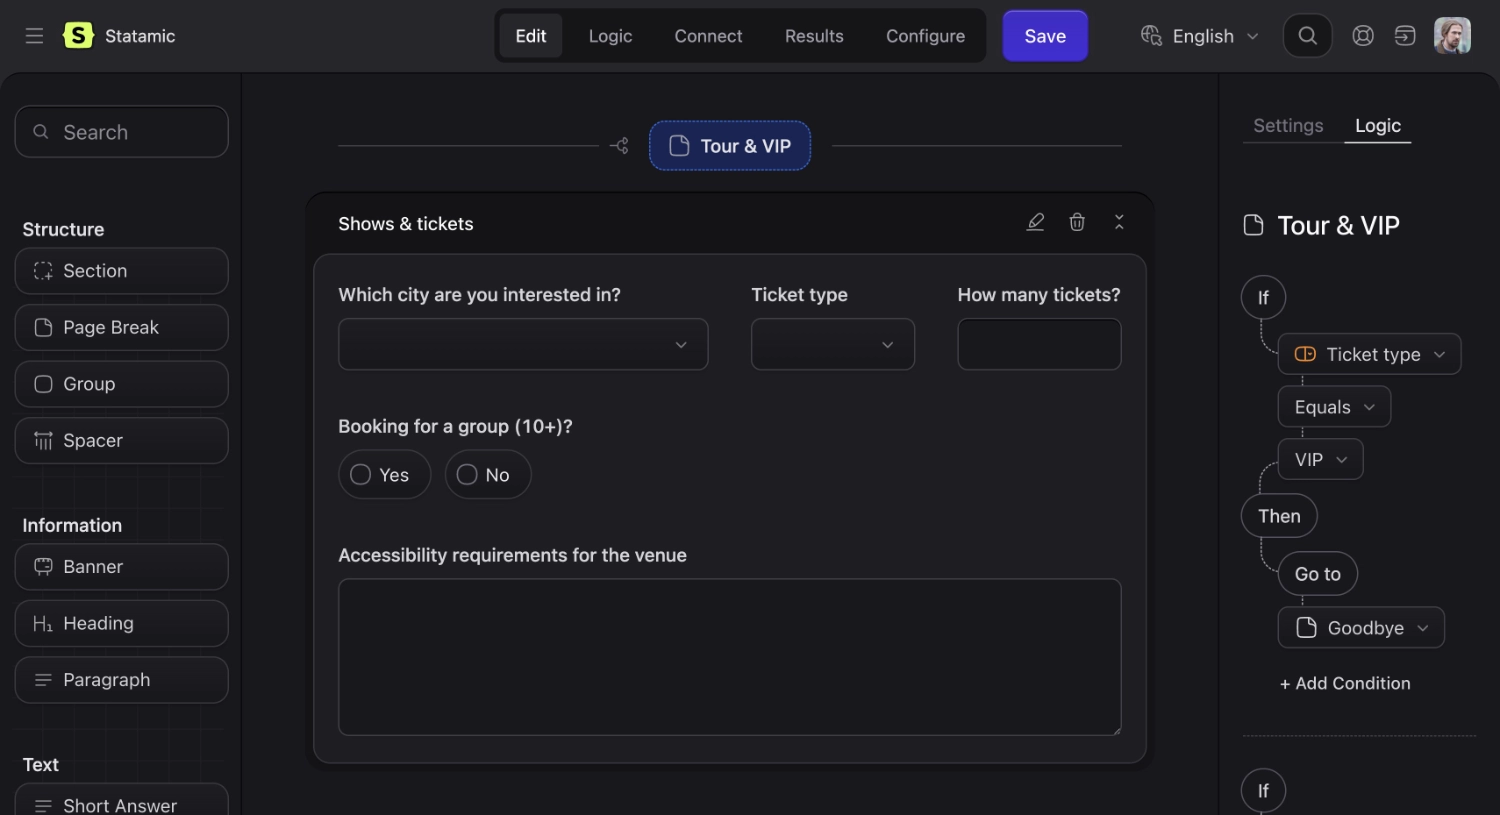
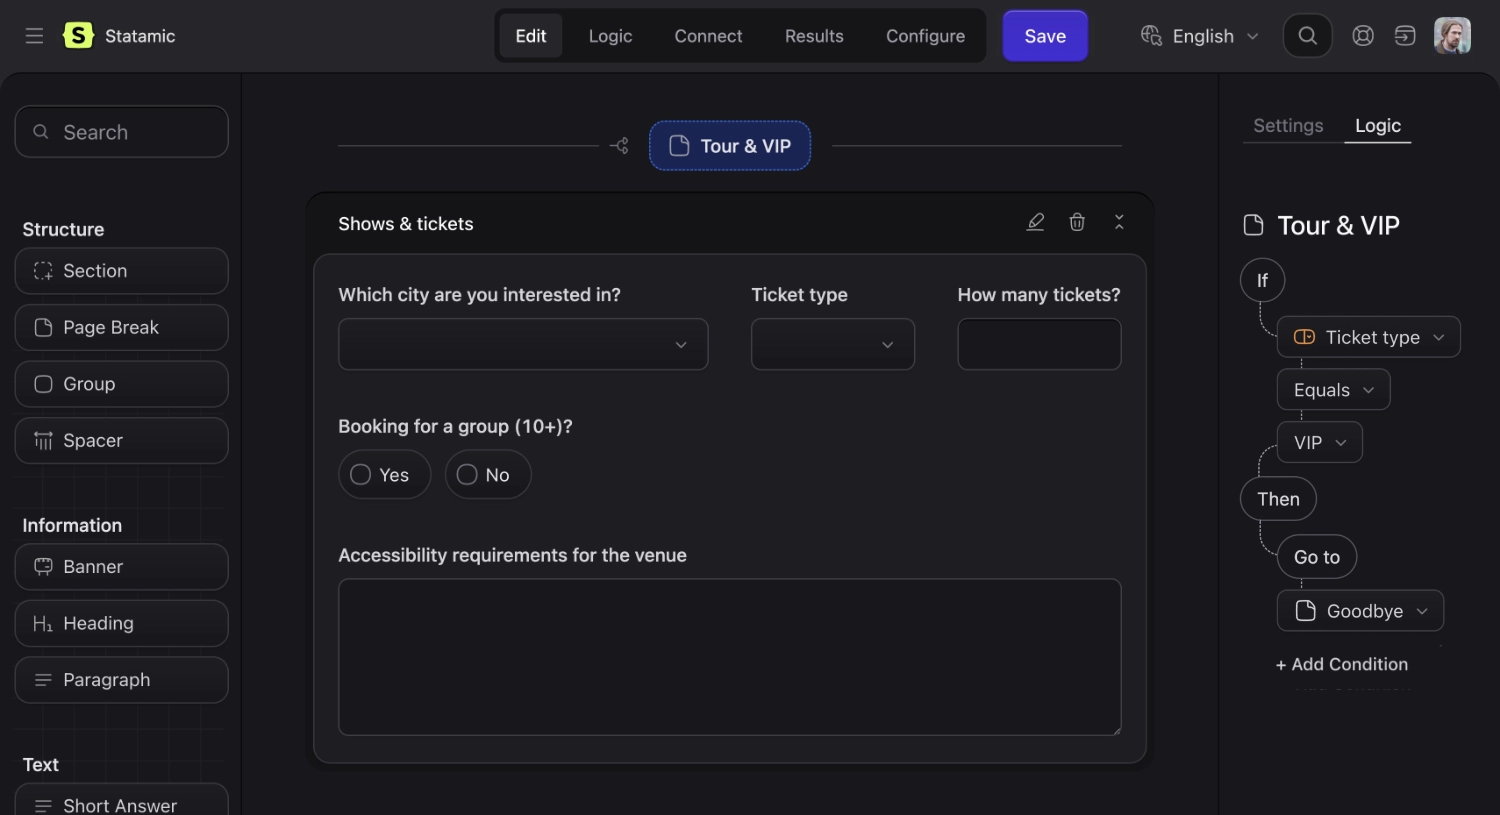
Forms wip

Changed region(s): [[0.828, 0.3374, 0.9813, 0.8589], [0.828, 0.9509, 0.8587, 1.0]]

diff --git a/resources/css/components/imagery/bordered-image.css b/resources/css/components/imagery/bordered-image.css
@@ -72,7 +72,7 @@
             margin-block-end: 0;
             margin-inline: auto;
             /* e.g. >> /getting-started/installing/laravel-forge-1-click */
-            border-radius: var(--border-radius-sm);
+            border-radius: var(--border-radius-md);
             border: 1px solid var(--color-black);
             /* Screenshots can look a little washed out, let's boost them a smidgen */
             filter: var(--filter-image-boost-content);

diff --git a/resources/css/components/entry-content.css b/resources/css/components/entry-content.css
@@ -293,6 +293,13 @@
     }
 }
 
+@layer scope {
+    .c-entry-content ol li figure {
+        /* e.g. >> /frontend/forms, where we have figures inside a list */
+        margin-block: 0 var(--spacing-lg);
+    }
+}
+
 @layer plugins {
     .c-entry-content {
         /* When lists have a pre compress things a little so it's more readable e.g. >> /addons/vite-tooling */

diff --git a/content/collections/pages/forms.md b/content/collections/pages/forms.md
@@ -715,8 +715,9 @@ When the [honeypot](#honeypot) catches spam — or an event listener returns `fa
 Need more from your forms? [Forms Pro](https://statamic.com/addons/statamic/forms-pro) is a paid addon that builds on Statamic's built-in forms with features like:
 
 - [Multi-page forms](#multi-page-forms)
-  - Control page logic
-  - Edit rules in a tree view
+  - [Controlling page logic](#controlling-page-logic)
+  - Use a dedicated tree view to understand complex page logic
+  - [Customizing page buttons](#customizing-page-buttons)
 - [Dedicated form pages](#dedicated-form-pages)
 - Unique form instances per entry
 - Additional fieldtypes & connections
@@ -741,7 +742,7 @@ This is especially useful for longer forms. Breaking them into pages makes them 
 <figure>
   <img src="/img/forms-pro/page-logic.webp" alt="Page logic for Forms Pro in the control panel" class="u-hide-in-dark-mode">
   <img src="/img/forms-pro/page-logic-dark.webp" alt="Page logic for Forms Pro in the control panel" class="u-hide-in-light-mode">
-  <figcaption>With Forms Pro you get Page logic as well as field logic</figcaption>
+  <figcaption>With Forms Pro you get page logic <em>as well as</em> field logic</figcaption>
 </figure>
 
 :::warning
@@ -750,7 +751,41 @@ The `SubmissionCreating`, `SubmissionCreated`, `SubmissionSaving` and `Submissio
 If you're listening to these events in your code, and _don't_ want to receive incomplete submissions, you should listen to either the [`FormSubmitted`](https://statamic.dev/backend-apis/events/events#formsubmitted) or [`SubmissionFinalized`](https://statamic.dev/backend-apis/events/events#submissionfinalized) events instead.
 :::
 
-#### Customize page buttons
+#### Controlling page logic
+
+With Forms Pro you can control page logic in a few different ways:
+
+<ol>
+  <li>
+    <p>The Edit tab — edit page logic <strong>inline</strong>. This is useful for adjusting logic "as you go", by clicking on the page name in Edit mode, and selecting the logic tab.</p>
+    <figure>
+     <img src="/img/forms-pro/editing-logic-inline.webp" alt="Edit page logic for Forms Pro in the control panel" class="u-hide-in-dark-mode">
+     <img src="/img/forms-pro/editing-logic-inline-dark.webp" alt="Edit page logic for Forms Pro in the control panel" class="u-hide-in-light-mode">
+     <figcaption>Edit page logic as you go in the control panel</figcaption>
+   </figure>
+  </li>
+  <li>
+    <p>The logic tab <strong>(List view)</strong>. See page and field-level logic side by side, then open any rule to inspect and refine it.</p>
+    <figure>
+     <img src="/img/forms-pro/editing-logic-list.webp" alt="Edit page logic in a list view" class="u-hide-in-dark-mode" style="border-bottom-left-radius: 14px; border-bottom-right-radius: 14px;">
+     <img src="/img/forms-pro/editing-logic-list-dark.webp" alt="Edit page logic in a list view" class="u-hide-in-light-mode">
+     <figcaption>All your form logic in a dedicated list</figcaption>
+   </figure>
+  </li>
+  <li>
+    <p>The logic tab <strong>(Tree view)</strong>. This is useful for comprehending and adjusting more complex page logic.</p>
+    <figure>
+     <img src="/img/forms-pro/tree-view.webp" alt="Edit page logic for Forms Pro in the control panel" class="u-hide-in-dark-mode">
+     <img src="/img/forms-pro/tree-view-dark.webp" alt="Edit page logic for Forms Pro in the control panel" class="u-hide-in-light-mode">
+     <figcaption>See and arrange everything with the tree view. Drag and drop to reorder pages and rules. You have now reached Marie Kondo level of form organisation 💅</figcaption>
+   </figure>
+  </li>
+</ol>
+
+- [List](#list)
+- [Tree view](#tree-view)
+
+#### Customizing page buttons
 
 Page buttons default to “Next” and “Previous” but you can customize them to say whatever you want. Tease your users with something informative or cheeky—“Let's find out what Star Sign you are!”, “Ready to find out your perfect career?”, “Which Ninja Turtle are you?”, etc.
 
@@ -984,6 +1019,14 @@ Confused? Here's a visual example:
 > **or** `country` is `Canada`
 
 ...is evaluated as `(country is United States and state is California) or (country is Canada)`.
+
+### Form summaries
+
+<figure>
+  <img src="/img/forms-pro/form-summaries.webp" alt="Edit page logic for Forms Pro in the control panel" class="u-hide-in-dark-mode">
+  <img src="/img/forms-pro/form-summaries-dark.webp" alt="Edit page logic for Forms Pro in the control panel" class="u-hide-in-light-mode">
+  <figcaption>Edit page logic as you go in the control panel</figcaption>
+</figure>
 
 ### Dedicated form pages
 
